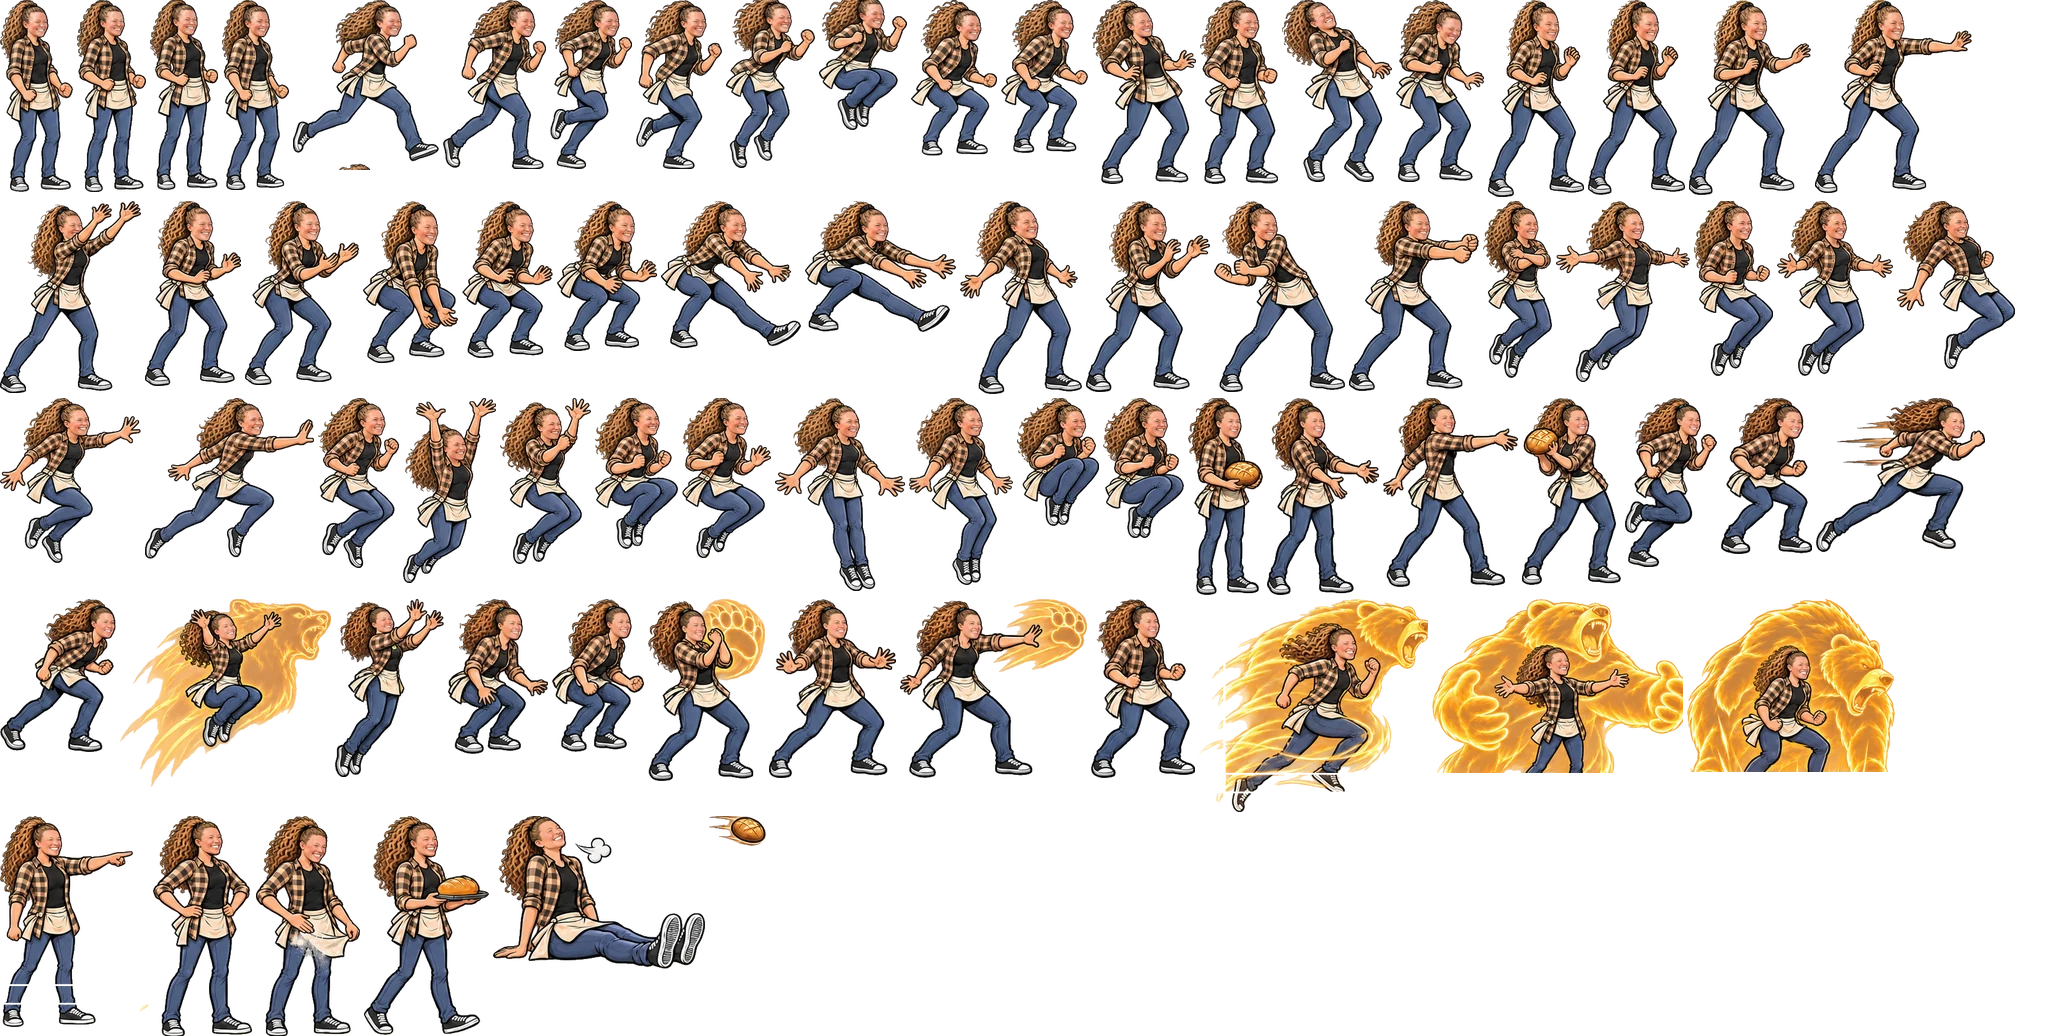
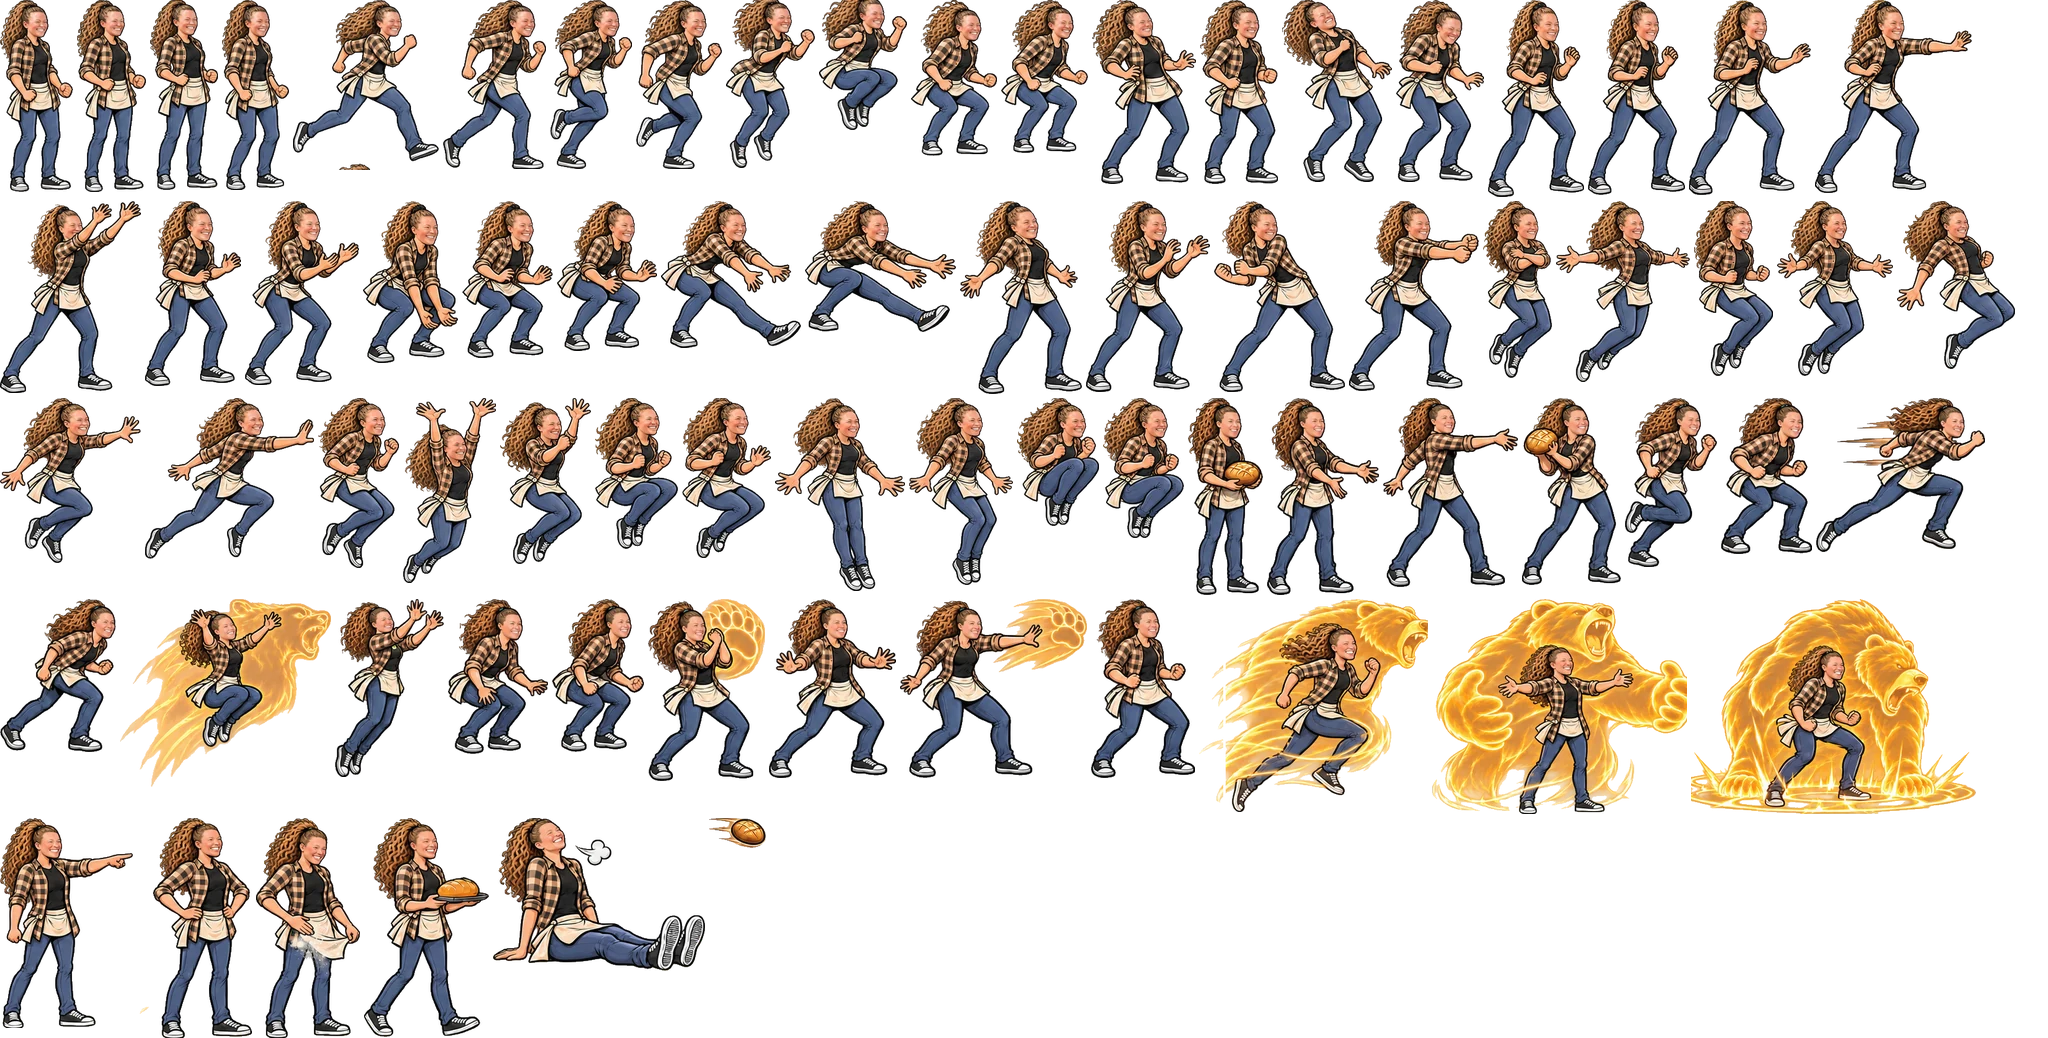
Morris Mayhem: Haylie's full ultimate art; giants keep one size from entrance to fight
Haylie: the amber bear's glow was read as a name-tag strip and a cut went
through her legs; ultimate poses 3-4 lost her legs and the bottom of the
bear. Re-cut with no tag cuts on that sheet (slice_sprites 'notagcuts').
Giants: their transformation/personality sheets were drawn 1.3-1.5x bigger
than the fighting poses, so the entrance (and losing, story transformation,
Triple Trouble's ultimate/taunt/victory) poses shrank when the fight began.
Scaled to match by head size.

Claude-Session: https://claude.ai/code/session_01RfvCk8BiTKNajYvhD14yr3

diff --git a/morris-mayhem/src/js/sprites.js b/morris-mayhem/src/js/sprites.js
@@ -945,19 +945,19 @@ MM.SPRITES['haylie'] = {
     'babies0': [769, 599, 127, 179, 51.3, 178.6],
     'babies2': [900, 599, 187, 179, 107.1, 179.2],
     'babies3': [1091, 599, 104, 179, 39.5, 178.6],
-    'ult1': [1199, 599, 229, 213, 154.8, 173.6],
-    'ult2': [1432, 599, 251, 174, 126.6, 173.6],
-    'ult3': [1687, 599, 208, 173, 119.0, 173.0],
-    'ult0': [0, 816, 149, 211, 35.6, 168.0],
-    'pers1': [153, 816, 99, 220, 39.8, 220.1],
-    'pers2': [256, 816, 104, 220, 41.6, 220.1],
-    'pers0': [364, 816, 125, 219, 43.5, 218.9],
-    'pers3': [493, 816, 212, 153, 43.4, 153.1],
-    'loaf': [709, 816, 57, 30, 28.5, 15.2],
-    'ent': [364, 816, 125, 219, 43.5, 218.9],
-    'taunt': [153, 816, 99, 220, 39.8, 220.1],
-    'win': [256, 816, 104, 220, 41.6, 220.1],
-    'lose': [493, 816, 212, 153, 43.4, 153.1]
+    'ult1': [1199, 599, 229, 213, 150.0, 212.7],
+    'ult2': [1432, 599, 255, 215, 126.1, 215.1],
+    'ult3': [1691, 599, 285, 215, 148.9, 214.5],
+    'ult0': [0, 818, 149, 210, 45.6, 209.6],
+    'pers1': [153, 818, 99, 220, 39.8, 220.1],
+    'pers2': [256, 818, 104, 220, 41.6, 220.1],
+    'pers0': [364, 818, 125, 219, 43.5, 218.9],
+    'pers3': [493, 818, 212, 153, 43.4, 153.1],
+    'loaf': [709, 818, 57, 30, 28.5, 15.2],
+    'ent': [364, 818, 125, 219, 43.5, 218.9],
+    'taunt': [153, 818, 99, 220, 39.8, 220.1],
+    'win': [256, 818, 104, 220, 41.6, 220.1],
+    'lose': [493, 818, 212, 153, 43.4, 153.1]
   },
   moves: {"jab": "arm", "side": "grab", "down": "step", "up": "upgo", "nair": "reflex", "fair": "reach", "uair": "sky", "dair": "feet", "neutral": "bread", "sideSpecial": "coming", "upSpecial": "gotyou", "downSpecial": "babies", "counterHit": "babies2", "upRow": "upgo", "uairRow": "sky", "riseMid": "gotyou2", "riseLate": "gotyou3"},
 };
@@ -2091,7 +2091,7 @@ MM.SPRITES['patty-mayhem'] = {
 MM.SPRITES['jeff-giant'] = {
   src: 'img/jeff-giant-atlas.webp',
   standH: 260,
-  fscale: {},
+  fscale: {"cup0": 0.72, "cup1": 0.72, "cup2": 0.72, "cup3": 0.72, "back0": 0.72, "back1": 0.72, "back2": 0.72, "back3": 0.72, "ent": 0.72, "lose": 0.72},
   frames: {
     'idle0': [0, 0, 249, 260, 124.5, 260.0],
     'idle1': [253, 0, 246, 261, 123.0, 261.0],
@@ -2172,7 +2172,7 @@ MM.SPRITES['jeff-giant'] = {
 MM.SPRITES['patty-giant'] = {
   src: 'img/patty-giant-atlas.webp',
   standH: 260,
-  fscale: {},
+  fscale: {"cup0": 0.68, "cup1": 0.68, "cup2": 0.68, "cup3": 0.68, "back0": 0.68, "back1": 0.68, "back2": 0.68, "back3": 0.68, "ent": 0.68, "lose": 0.68},
   frames: {
     'idle0': [0, 0, 257, 260, 128.5, 260.0],
     'idle1': [261, 0, 256, 259, 128.0, 259.0],
@@ -2251,7 +2251,7 @@ MM.SPRITES['patty-giant'] = {
 MM.SPRITES['triple-trouble'] = {
   src: 'img/triple-trouble-atlas.webp',
   standH: 178,
-  fscale: {},
+  fscale: {"ult0": 0.76, "ult1": 0.76, "ult2": 0.76, "ult3": 0.76, "pers0": 0.76, "pers1": 0.76, "pers2": 0.76, "pers3": 0.76, "ent": 0.76, "taunt": 0.76, "win": 0.76, "lose": 0.76},
   frames: {
     'idle0': [0, 0, 220, 178, 110.0, 178.4],
     'idle1': [224, 0, 220, 178, 110.0, 178.4],

diff --git a/morris-mayhem/tools/slice_sprites.py b/morris-mayhem/tools/slice_sprites.py
@@ -166,13 +166,14 @@ CHARACTERS = {
         },
         'props': [('loaf', 'specials.png', (915, 172))],
         'mainonly': {'specials.png': ['bread']},
-        'cutrows': {'move.png': [705], 'aerials.png': [106, 114], 'ultimate.png': [470, 836]},  # touching poses / title / name tags
+        'notagcuts': ('ultimate.png',),  # the amber bear's glow reads as a name-tag strip and got sliced through her legs
+        'cutrows': {'move.png': [705], 'aerials.png': [106, 114], 'ultimate.png': [411, 470, 836]},  # 411: her feet and the bear stand on the caption plates  # touching poses / title / name tags
         'cutcols': {'ultimate.png': [(540, 60, 470), (870, 60, 470), (1290, 60, 470)]},
         'rowbands': {'move.png': [(105, 427), (427, 707), (707, 983), (983, 1300)],
                      'attacks.png': [(105, 431), (431, 737), (737, 986), (986, 1300)],
                      'aerials.png': [(105, 412), (412, 706), (706, 980), (980, 1300)],
                      'specials.png': [(105, 426), (426, 680), (680, 1004), (1004, 1300)],
-                     'ultimate.png': [(60, 470), (470, 890)]},
+                     'ultimate.png': [(60, 412), (470, 890)]},  # stop above the caption plates: her feet and the bear touch them
     },
     # Sara: labels on the left, no tags under the poses; her tattoo effects come as separate pictures (extras),
     # so the baked-in rose / snakes / spider are dropped from the specials poses (mainonly).
@@ -452,6 +453,7 @@ CHARACTERS = {
 }
 
 CUTROWS = {}
+NOTAGCUTS = set()  # sheets where bright yellow art (Haylie's amber bear) would be mistaken for name tags
 DEBUG = os.environ.get('SLICE_DEBUG')
 ROWBANDS = {}
 
@@ -487,7 +489,7 @@ def slice_sheet(path, names, cols, frames, scale, excl=(), cutcols=False, mainon
         rows.append((top, b[0] - 6)); top = b[1] + 20
     if rb: rows = list(rb)
     # a thin cut just above each tag strip separates poses that touch their tag
-    cut_tags(a, tags)
+    if path.rsplit('/', 1)[-1] not in NOTAGCUTS: cut_tags(a, tags)
     for (cx_, y0_, y1_) in (cutcols or {}).get(path.rsplit('/', 1)[-1], []): a[y0_:y1_, cx_ - 2:cx_ + 2, 3] = 0
     for ry in CUTROWS.get(path.rsplit('/', 1)[-1], []): a[ry - 2:ry + 2, :, 3] = 0
     m = a[..., 3] >= 128
@@ -807,7 +809,7 @@ if __name__ == '__main__':
     who, art, out = sys.argv[1:4]
     cfg = CHARACTERS[who]; frames = {}
     props = cfg.get('props', [])
-    CUTROWS.clear(); CUTROWS.update(cfg.get('cutrows', {})); ROWBANDS.clear(); ROWBANDS.update(cfg.get('rowbands', {}))
+    CUTROWS.clear(); CUTROWS.update(cfg.get('cutrows', {})); NOTAGCUTS.clear(); NOTAGCUTS.update(cfg.get('notagcuts', ())); ROWBANDS.clear(); ROWBANDS.update(cfg.get('rowbands', {}))
     for sheet, names in cfg['sheets'].items():
         excl = [pt for (_, sh, pt) in props if sh == sheet and pt]
         cols = cfg.get('cols')

diff --git a/morris-mayhem/tools/build_sprites_js.py b/morris-mayhem/tools/build_sprites_js.py
@@ -137,6 +137,11 @@ GROUP_SCALE = {
               'spin': 0.83, 'mac': 0.9, 'tired': 0.87},
     'megan': {'def': 0.8, 'bair': 0.8, 'ret': 1.6, 'nap': 1.25, 'pers2': 0.78, 'pers3': 0.78, 'win': 0.78, 'lose': 0.78},
     'mandi-witch': {'whirl': 1.3, 'salon': 1.15},
+    # the giants' transformation / personality sheets were drawn bigger than their fighting poses (head-size check):
+    # entrance and losing poses come from them, so without this they shrank when the fight started
+    'jeff-giant': {g: 0.72 for g in ('cup', 'back', 'ent', 'lose')},
+    'patty-giant': {g: 0.68 for g in ('cup', 'back', 'ent', 'lose')},
+    'triple-trouble': {g: 0.76 for g in ('ult', 'pers', 'ent', 'taunt', 'win', 'lose')},
     'courtnee': {'saiyan': 1.2},
     'haylie': {'ult1': 1.15, 'ult2': 1.3, 'ult3': 1.3},
     # Jacqi's specials sheet was drawn ~3/4 size; her dash SUV matches the ultimate's SUV
